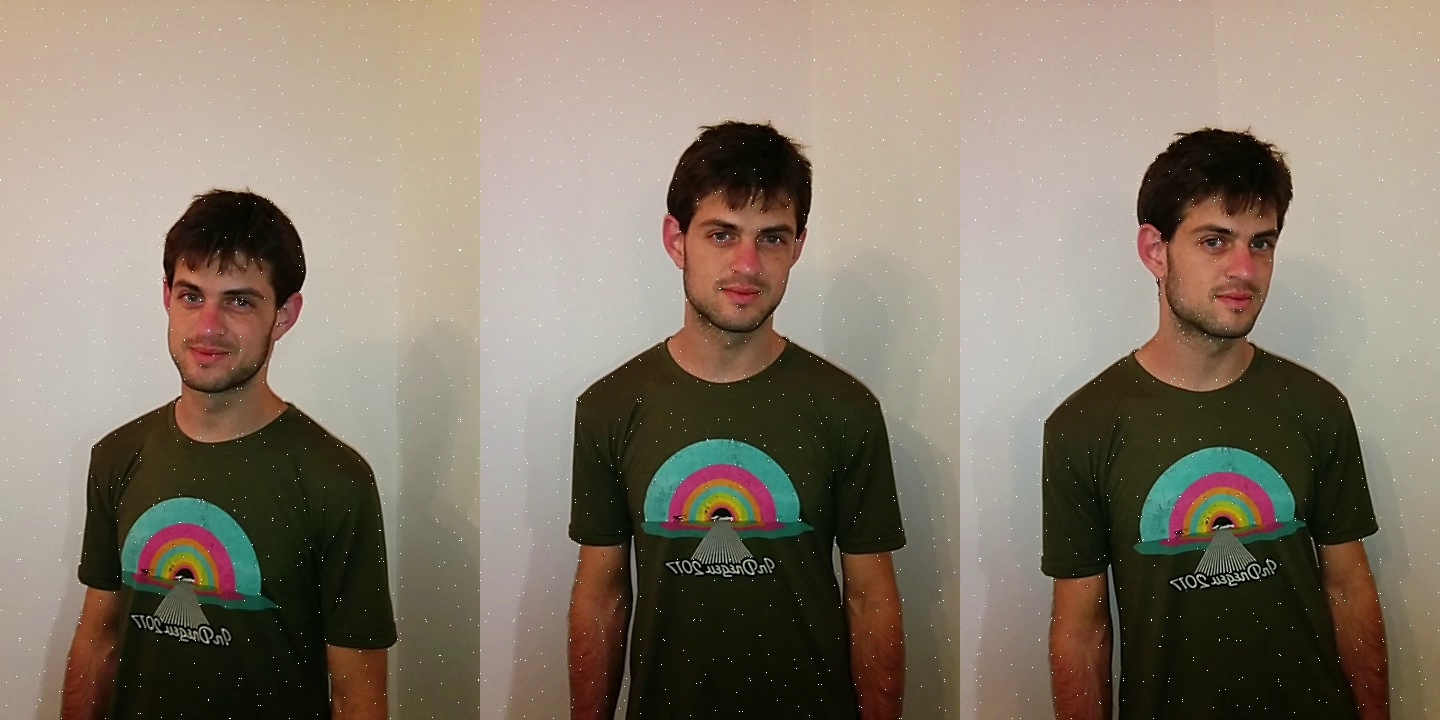
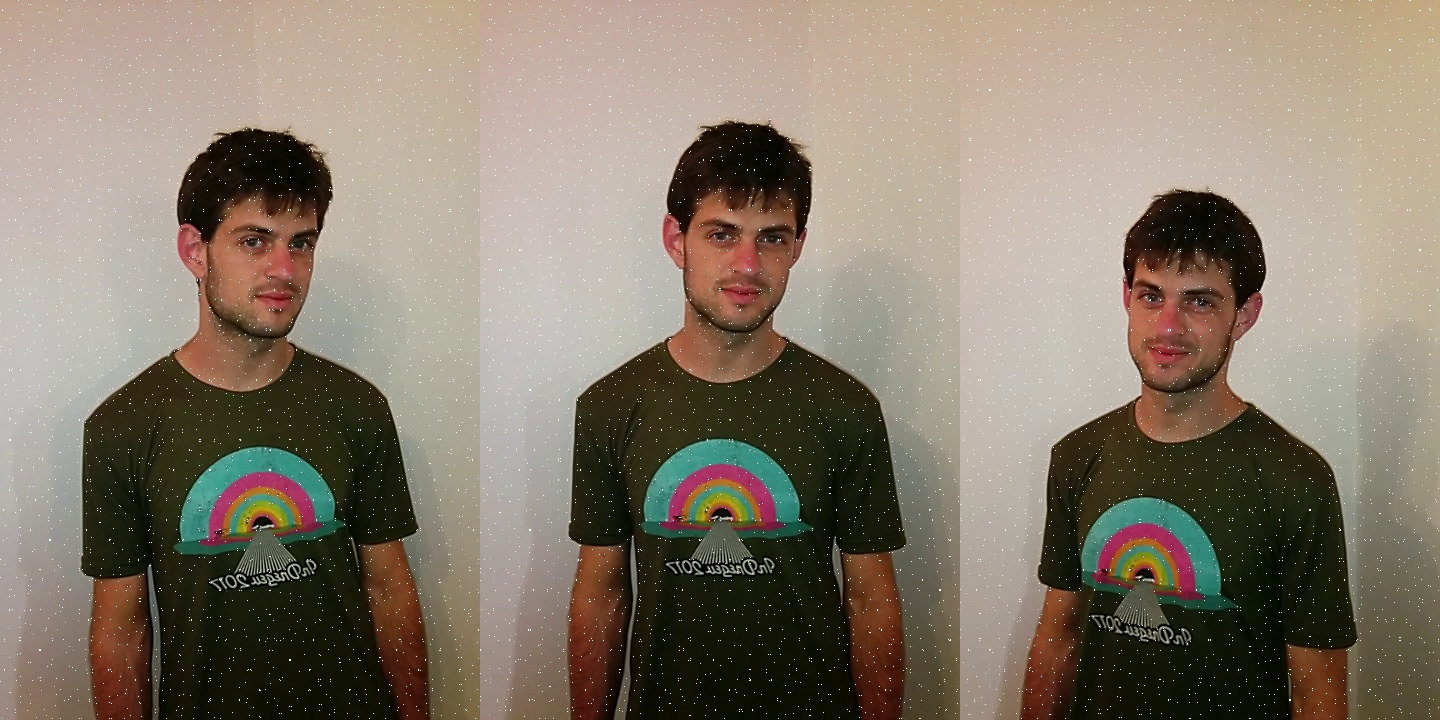
Q6 done

Changed region(s): [[0.6562, 0.1528, 1.0, 1.0], [0.0, 0.1528, 0.3438, 1.0]]

diff --git a/hw3/q6.py b/hw3/q6.py
@@ -28,11 +28,10 @@ def match_images(ref_image, ref_points, target_image, target_points, search_wind
             best_point = points_in_window[0]
         else:
             template = get_sub_image(ref_image, ref_point, match_window)
-            # utils.cvshow("template", template)
             best_point = get_best_matching_point(template, target_image, points_in_window, match_window)
         matched_points.append(best_point)
-    # print("ref points num: " + str(len(ref_points)) + "\nfiltered ref points num: " + str(len(filtered_ref_points))+ "\nAvg of feature points in matching window: " + str(sum(points_in_winow_num)/len(filtered_ref_points)))
     return filtered_ref_points, matched_points
+
 
 def get_best_matching_point(template, target_image, points, match_window):
     """
@@ -126,28 +125,27 @@ def filter_points_not_in_window(ref_point, points, window_size):
     return filtered_list
 
 
-def perform_q6(ref_image, target_image, mask, ref_points=None):
+def perform_q6(ref_image, target_image, mask, ref_points=None, search_win=5, ssd_win=40, nms_window=20):
     """
     Receives a reference image and a target image and returns 10 automatically matched points between them (composition of all sub functions)
     :param ref_image: is the reference image
     :param target_image: is the target image
+    :param mask:
+    :param ref_points:
     :return: 2 lists of points. Pairs are matched by list index
     """
-
-    # Window for optimal matching
-    nms_window = 30  # Full Window size
-    search_win = 10  # 0.5*L - Half Window size
-    ssd_win = 10  # 0.5*W - Half Window size
 
     # Extract feature points for both images:
     if ref_points is None:
         ref_feature_points, ref_features_img = q2.harris_and_nms(ref_image, nms_window)
     else:
+        print("predefined")
         ref_feature_points = ref_points
 
     target_feature_points, target_features_img = q2.harris_and_nms(target_image, nms_window)
+
     # filter out points that do not correspond to points in the mask
-    f_ref_points, f_seq_points = filter_points_not_in_mask(ref_feature_points, target_feature_points, mask)
+    f_ref_points, f_seq_points = filter_points_not_in_mask(ref_feature_points, mask, seq_points=target_feature_points)
     # marked_ref = q3.mark_points(ref_image, f_ref_points)
     # marked_seq = q3.mark_points(target_image, f_seq_points)
     # utils.compare_two_images(marked_ref, marked_seq, "comp")
@@ -160,13 +158,102 @@ def perform_q6(ref_image, target_image, mask, ref_points=None):
     return match_images(ref_image, f_ref_points, target_image, f_seq_points, search_win, ssd_win)
 
 
-def filter_points_not_in_mask(ref_points, seq_points, mask):
+def filter_points_not_in_mask(ref_points, mask, seq_points=None):
     new_ref_points = list()
     new_seq_points = list()
     for i in range(len(ref_points)):
         c, r = ref_points[i]
         if mask[r, c].any() > 0:
             new_ref_points.append(ref_points[i])
-            new_seq_points.append(seq_points[i])
+            if seq_points is not None:
+                new_seq_points.append(seq_points[i])
 
     return new_ref_points, new_seq_points
+
+
+def answer_question2(frame_list):
+    mask = cv.imread(utils.get_pwd() + '/our_data/masked_frames/0.jpg')
+    mask = np.transpose(mask, (1, 0, 2))
+
+    # ref_feature_points, ref_features_img = q2.harris_and_nms(frame_list[0], 20)
+    # ref_feature_points, _ = filter_points_not_in_mask(ref_feature_points, mask)
+
+    for i in range(1, len(frame_list)):
+        filtered_ref_points, matched_points = perform_q6(frame_list[0], frame_list[i], mask,
+                                                         ssd_win=20,
+                                                         search_win=50,
+                                                         nms_window=50)
+
+        f = frame_list[0].copy()
+        ref_frame_marked = q3.mark_points(f, filtered_ref_points[0:9])
+        seq_frame_marked = q3.mark_points(frame_list[i], matched_points[0:9])
+        utils.compare_two_images(ref_frame_marked, seq_frame_marked, "No mask")
+
+
+def answer_question(frame_list):
+    mask = cv.imread(utils.get_pwd() + '/our_data/masked_frames/0.jpg')
+    mask = np.transpose(mask, (1, 0, 2))
+
+    # ref_feature_points, ref_features_img = q2.harris_and_nms(frame_list[0], nms_window=10)
+    # ref_feature_points, _ = filter_points_not_in_mask(ref_feature_points, mask)
+
+    orig_ref_points = list()
+    has_orig = False
+
+    ref_frame_points_lists = list()
+    seq_frame_points_lists = list()
+    for i in range(1, len(frame_list)):
+        ref_points, matched_points = perform_q6(frame_list[0], frame_list[i], mask,
+                                                ssd_win=30,
+                                                search_win=50,
+                                                nms_window=8)
+
+        if has_orig is False:
+            orig_ref_points = ref_points
+            orig_ref_points, _ = filter_points_not_in_mask(orig_ref_points, mask)
+            has_orig = True
+
+        ref_frame_points_lists.append(ref_points)
+        seq_frame_points_lists.append(matched_points)
+        orig_ref_points = _filter_points_not_in_points(orig_ref_points, ref_points)
+
+    final_seq_points_lists = list()
+    final_seq_points_lists.append(orig_ref_points)
+    for i in range(len(ref_frame_points_lists)):
+        seq_points_list = list()
+        for ref_point in orig_ref_points:
+            index = ref_frame_points_lists[i].index(ref_point)
+            seq_points_list.append((seq_frame_points_lists[i])[index])
+
+        final_seq_points_lists.append(seq_points_list)
+
+    marked_frame_list = list()
+    i = 0
+    for point_list in final_seq_points_lists:
+        f = frame_list[i].copy()
+
+        print(len(point_list))
+        marked_frame = q3.mark_points(f, point_list[0:10])
+        marked_frame_list.append(marked_frame)
+        i += 1
+
+    marked_frame_list = utils.rotate_frames(marked_frame_list)
+    final = utils.hstack_frames(marked_frame_list, reverse=True)
+
+    cv.imwrite(utils.get_pwd() + "/q6" + ".jpg", final)
+
+
+def _filter_points_not_in_points(ref_points_base, ref_points_current):
+    """
+
+    :param ref_points_base:
+    :param ref_points_current:
+    :return:
+    """
+    new_base_points = list()
+    for base_point in ref_points_base:
+        if base_point in ref_points_current:
+            new_base_points.append(base_point)
+
+    return new_base_points
+

diff --git a/hw3/q3.py b/hw3/q3.py
@@ -8,11 +8,11 @@ from numpy import ascontiguousarray
 red = (0, 0, 255)
 green = (0, 255, 0)
 blue = (255, 0, 0)
-black = (0, 0, 0)
+yellow = (0, 255, 255)
 white = (255,255,255)
 
 
-colors = [red, green, blue, black, white]
+colors = [red, green, blue, yellow, white]
 
 max_points = 6
 
@@ -28,7 +28,7 @@ def perform(frames):
         iml.append(marked_frame)
 
     iml = utils.rotate_frames(iml)
-    iml = utils.hstack_frames(iml)
+    iml = utils.hstack_frames(iml, reverse=True)
     cv.imwrite(utils.get_pwd() + "/q3" + ".jpg", iml)
 
 
@@ -42,19 +42,20 @@ def mark_points(image, points):
     """
     # if len(points) > max_points:
     #     raise ValueError('More than 6 points in points')
-    new_image = np.copy(image, 'C')
+    # new_image = image.copy()
+    # new_image = image
     for i in range(len(points)):
         option = int(i/len(colors))
         c_ind = i % len(colors)
-        # print(points[i])
+
         if option == 0:
-            new_image = np.ascontiguousarray(image, dtype=np.uint8)
-            cv.circle(new_image, tuple(points[i]), 5, colors[c_ind], -1)
+            image = np.ascontiguousarray(image, dtype=np.uint8)
+            cv.circle(image, tuple(points[i]), 5, colors[c_ind], -1)
         else:
             top_left, bottom_right = get_rect(points[i])
-            cv.rectangle(new_image, top_left, bottom_right, colors[c_ind], -1)
+            cv.rectangle(image, top_left, bottom_right, colors[c_ind], -1)
 
-    return new_image
+    return image
 
 
 def get_rect(point, edge=5):

diff --git a/hw3/q2.py b/hw3/q2.py
@@ -8,11 +8,11 @@ def perform(frame_list):
     indices = [0, 3, 5]
     frame_list = [frame_list[x] for x in indices]
     for frame in frame_list:
-        features, frame_after_harris = harris_and_nms(frame, nms_window=20)
+        features, frame_after_harris = harris_and_nms(frame, nms_window=10)
         frames_with_features.append(frame_after_harris)
 
     rframes = utils.rotate_frames(frames_with_features)
-    stacked_frames = utils.hstack_frames(rframes)
+    stacked_frames = utils.hstack_frames(rframes, reverse=True)
 
     cv.imwrite(utils.get_pwd() + "/q2" + ".jpg", stacked_frames)
 
@@ -108,12 +108,14 @@ def non_maximum_suppression(img, win_size):
             img_win = img[row:row_next, col:col_next]
             # NMS on window:
             win_max = np.amax(img_win)
+            not_found = True  # TODO IGOR REMOVE
             for win_row in range(img_win.shape[0]):
                 for win_col in range(img_win.shape[1]):
-                    if img_win[win_row, win_col] == win_max:
+                    if img_win[win_row, win_col] == win_max and not_found:  # TODO IGOR REMOVE
                         max_points_list.append([col+win_col, row+win_row])  # X - col, Y - row   << this is what we had
                         max_values_list.append(img_win[win_row, win_col])
                         img_win[win_row, win_col] = img_max
+                        not_found = False  # TODO IGOR REMOVE
                     else:
                         img_win[win_row, win_col] = 0
 

diff --git a/hw3/q5.py b/hw3/q5.py
@@ -14,7 +14,7 @@ def perform(frames, transformations):
         stabilized_images.append(stabilized_image)
 
     stabilized_images = utils.rotate_frames(stabilized_images)
-    stabilized_images = utils.hstack_frames(stabilized_images)
+    stabilized_images = utils.hstack_frames(stabilized_images, reverse=False)
     cv2.imwrite(utils.get_pwd() + "/q5" + ".jpg", stabilized_images)
 
 

diff --git a/hw3/utils.py b/hw3/utils.py
@@ -19,8 +19,11 @@ The following two functions are here to convert our (x,y) lists to (r,c) lists
 """
 
 
-def hstack_frames(frame_list):
-    merged = cv.hconcat(tuple(frame_list))
+def hstack_frames(frame_list, reverse=False):
+    if reverse:
+        merged = cv.hconcat(tuple(reversed(frame_list)))
+    else:
+        merged = cv.hconcat(tuple(frame_list))
     return merged
 
 

diff --git a/hw3/program.py b/hw3/program.py
@@ -76,6 +76,10 @@ if __name__ == "__main__":
     make_normal_video(pwd + '/our_data/q5_ariel_stable.avi', q5_stabilized_frames)
 
     # Q6
+    q6.answer_question(frame_list)
+
+    exit()
+
     mask = cv.imread(pwd + '/our_data/masked_frames/0.jpg')
     mask = np.transpose(mask, (1, 0, 2))
     print(len(frame_list))
